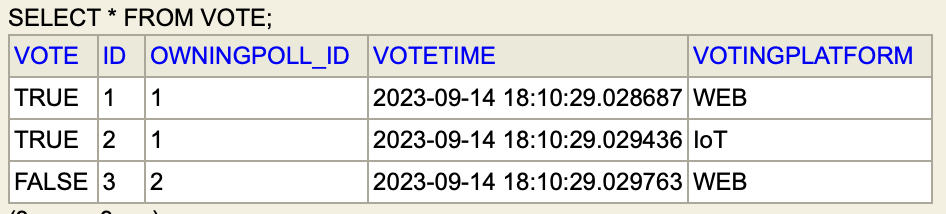
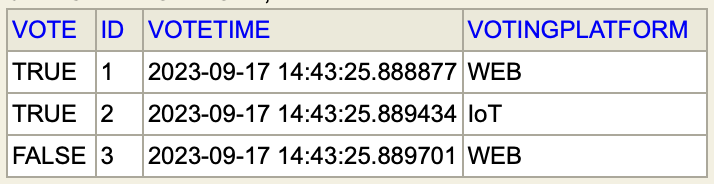
removed owning poll id

diff --git a/jpa/src/main/java/no/hvl/dat250/feedapp/driver/FeedAppMain.java b/jpa/src/main/java/no/hvl/dat250/feedapp/driver/FeedAppMain.java
@@ -75,10 +75,7 @@ public class FeedAppMain {
 
         poll.setPollOwner(account);
         poll2.setPollOwner(account);
-
-        vote1.setOwningPoll(poll);
-        vote2.setOwningPoll(poll);
-        vote3.setOwningPoll(poll2);
+        
     }
   }
 

diff --git a/jpa/src/main/java/no/hvl/dat250/feedapp/Vote.java b/jpa/src/main/java/no/hvl/dat250/feedapp/Vote.java
@@ -26,7 +26,4 @@ public class Vote {
     private VotingPlatform votingPlatform;
     private LocalDateTime voteTime;
 
-    @ManyToOne
-    private Poll owningPoll;
-
 }
